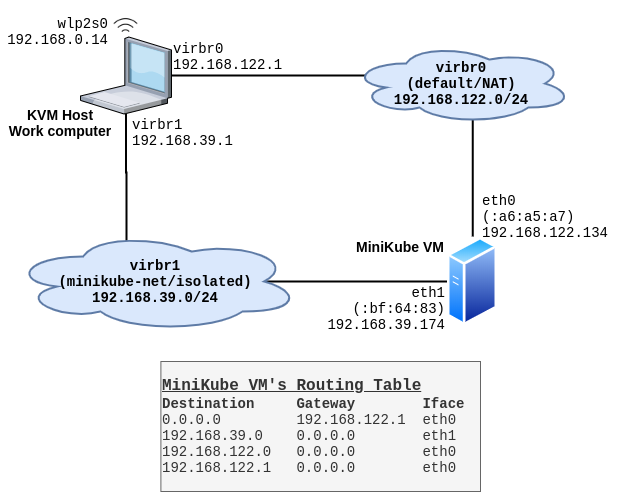
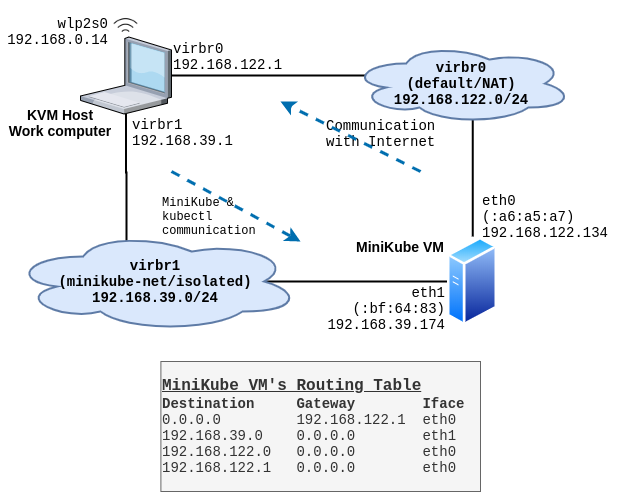
Added more material in the minikube document. Added supporting images.

diff --git a/Minikube-setup.md b/Minikube-setup.md
@@ -170,10 +170,9 @@ To use the dashboard addon, run the `minikube dashboard` command:
 🤔  Verifying proxy health ...
 🎉  Opening http://127.0.0.1:37419/api/v1/namespaces/kubernetes-dashboard/services/http:kubernetes-dashboard:/proxy/ in your default browser...
 Opening in existing browser session.
-
-(At this point a browser window will open in your computer and Kubernetes dashboard will be running visible inside it.)
 ```
 
+(At this point a browser window will open in your computer and Kubernetes dashboard will be running visible inside it.)
 
 |  ![images/minikube-dashboard.png](images/minikube-dashboard.png) |
 | --------------------------------------------------------------- |
@@ -366,38 +365,8 @@ The solution is to connect this VM on this isolated network, to yet another netw
 
 
 
-
-
-
-
-
-
-
-
-
-
-
-
-
-
-
-
-
-
-
-
-
-
-
-
-
-
-
-
-
-
-
 # Further reading:
+* [https://wiki.libvirt.org/page/VirtualNetworking](https://wiki.libvirt.org/page/VirtualNetworking)
 * [https://kubernetes.io/docs/setup/learning-environment/minikube/](https://kubernetes.io/docs/setup/learning-environment/minikube/)
 * [https://docs.gitlab.com/charts/development/minikube/](https://docs.gitlab.com/charts/development/minikube/)
 * [https://minikube.sigs.k8s.io/docs/handbook/](https://minikube.sigs.k8s.io/docs/handbook/)
